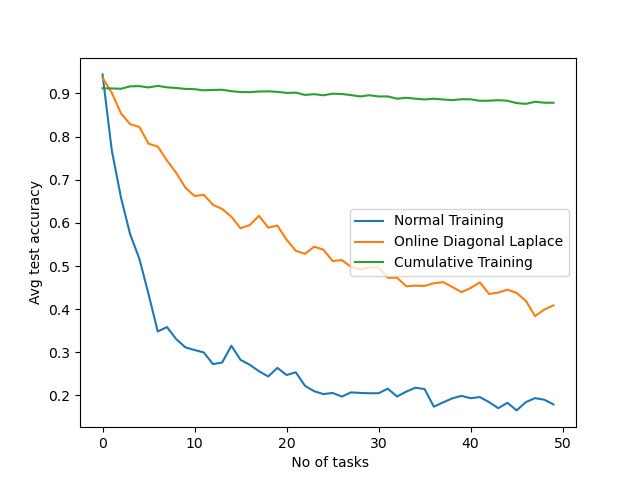
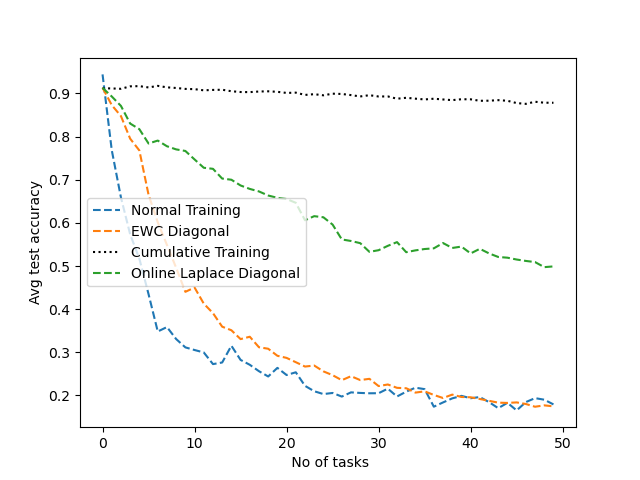
Added EWC

diff --git a/train.py b/train.py
@@ -4,7 +4,7 @@ import torch
 from torchvision import datasets, transforms
 from model import MLP, estimate_fisher
 from dataset import *
-
+from configs import cnfgs
 class OnlineLearner():
     def __init__(self, cfg):
         self.cfg = cfg
@@ -12,7 +12,9 @@ class OnlineLearner():
         self.train_datasets, self.test_datasets = get_permuted_MNIST(num_task=cfg['num_task'], seed=cfg['seed'])
         self.model = MLP(output_size=cfg['num_class']).to(self.device)
         self.current_parameter = {}
+        self.map_parameters = []
         self.current_fisher = {}
+        self.current_si = {}
         self.validation_acc = []
         
     def evaluate(self, idx):
@@ -31,6 +33,35 @@ class OnlineLearner():
         #print(f"Test accuracy: {acc}")
         return np.array(acc).mean()
     
+    def get_laplace_loss(self, model, current_fisher, parameter):
+        laplace_loss = []
+        for n, p in model.named_parameters():
+            map_parameter = parameter[n]
+            fisher = current_fisher[n]
+            laplace_loss.append((fisher*(p-map_parameter)**2).sum() )
+        return 0.5 * sum(laplace_loss)
+    
+    def get_si_loss(self, model, synaptic_strength, parameter):
+        si_loss = []
+        c=0.95
+        for n, p in model.named_parameters():
+            map_parameter = parameter[n]
+            synaptic_strength = synaptic_strength[n]
+            si_loss.append((synaptic_strength*(p-map_parameter)**2).sum() )
+        return c * sum(si_loss)
+    
+    def get_ewc_loss(self, model, current_fisher, map_parameters):
+        ewc_loss = []
+        for n, p in model.named_parameters():
+            # map_parameter = parameter[n]
+            fisher = current_fisher[n]
+            ewc_penalty = []
+            for prev_map_parameter in map_parameters:
+                ewc_penalty.append((p-prev_map_parameter[n])**2)
+            
+            ewc_loss.append((fisher*sum(ewc_penalty)).sum() )
+        return 0.5 * sum(ewc_loss)
+    
     def train(self, dataset, iters, idx):
         optimizer = torch.optim.Adam(self.model.parameters(), lr=self.cfg['lr'], betas=(0.9, 0.999))
         self.model.train()
@@ -47,16 +78,20 @@ class OnlineLearner():
             optimizer.zero_grad()
             y_hat = self.model(x)
             classifier_loss = torch.nn.functional.cross_entropy(input=y_hat, target=y, reduction='mean')
+            # if idx == 1 or self.cfg["train_mode"] == "normal":
+            #     loss = classifier_loss
             if idx>1 and (self.cfg["train_mode"] == "online_laplace_diagonal"):
-                laplace_loss = []
-                for n, p in self.model.named_parameters():
-                    map_parameter = self.current_parameter[n]
-                    fisher = self.current_fisher[n]
-                    laplace_loss.append((fisher*(p-map_parameter)**2).sum() )
-                laplace_loss = 0.5 * sum(laplace_loss)
+                laplace_loss = self.get_laplace_loss(self.model, self.current_fisher, self.current_parameter)
+                loss = classifier_loss + laplace_loss
+            elif idx>1 and (self.cfg["train_mode"] == "ewc_diagonal"):
+                laplace_loss = self.get_ewc_loss(self.model, self.current_fisher, self.map_parameters)
+                loss = classifier_loss + laplace_loss
+            elif idx>1 and (self.cfg["train_mode"] == "si_diagonal"):
+                si_loss = self.get_si_loss(self.model, self.current_fisher, self.current_parameter)
+                loss = classifier_loss + si_loss
             else:
-                laplace_loss = 0
-            loss = classifier_loss + laplace_loss
+                loss = classifier_loss
+            # loss = classifier_loss + laplace_loss
             accuracy = (y == y_hat.max(1)[1]).sum().item()*100 / x.size(0)
             loss.backward()
             optimizer.step()
@@ -67,14 +102,17 @@ class OnlineLearner():
             progress_bar.update(1)
         progress_bar.close()
     
-    
     def update_laplace_estimate(self, dataset, weight=1.0):
         fisher, self.current_parameter = estimate_fisher(self.model, dataset, n_samples=self.cfg['n_samples_fisher'], device=self.device)
+        self.map_parameters.append(self.current_parameter)
         if self.current_fisher :
             for n, p in fisher.items():
                 self.current_fisher[n] += fisher[n] * weight
         else:
             self.current_fisher = fisher
+    
+    def update_si_estimate(self, dataset, weight=1.0):
+        pass
             
     def train_all(self):
         for i in range(self.cfg['num_task']):
@@ -84,6 +122,10 @@ class OnlineLearner():
             print(f"Avg Test Accuracy: {acc: .3f}")
             if  (self.cfg["train_mode"] == "online_laplace_diagonal"):
                 self.update_laplace_estimate(self.train_datasets[i])
+            elif (self.cfg["train_mode"] == "ewc_diagonal"):
+                self.update_laplace_estimate(self.train_datasets[i])
+            elif (self.cfg["train_mode"] == "si_diagonal"):
+                self.update_si_estimate(self.train_datasets[i])
                 
         torch.save(torch.tensor(self.validation_acc), f"./plots/{self.cfg['train_mode']}.pt")
 
@@ -91,8 +133,6 @@ class OnlineLearner():
         for i in range(self.cfg['num_task']):
             
             #Train on all the previous datasets
-            # for j in range(i+1):
-            #     self.train(self.train_datasets[j], self.cfg['epoch'], idx=j+1)
             temp_dataset = torch.utils.data.ConcatDataset(self.train_datasets[:i+1])
             self.train(temp_dataset, self.cfg['epoch'], idx=i+1)
             acc = self.evaluate(i+1)
@@ -101,37 +141,19 @@ class OnlineLearner():
                 
         torch.save(torch.tensor(self.validation_acc), f"./plots/{self.cfg['train_mode']}.pt")
 
-    def print_data_shape(self):
-        for i in range(self.cfg['num_task']):
-            self.train_datasets[i] = torch.utils.data.ConcatDataset(self.train_datasets[:i+1])
-            print(f"Task {i+1}: Train: {len(self.train_datasets[i])}, Test: {len(self.test_datasets[i])}")
-        
-
 if __name__ == '__main__':      
     
-    # Can update new configurations here  
-    # cfg = {"device": 'cuda',
-    #     "num_task": 50,
-    #     "num_class": 10,
-    #     "seed": 42,
-    #     "batch_size": 128,
-    #     "lr": 0.01,
-    #     "epoch": 200,
-    #     "train_mode": 'online_laplace_diagonal',
-    #     "n_samples_fisher": 200,
-        
-    #     }
-
-    cfg = {"device": 'cuda',
-        "num_task": 50,
-        "num_class": 10,
-        "seed": 42,
-        "batch_size": 128,
-        "lr": 0.001,
-        "epoch": 200,
-        "train_mode": 'cumulative',        
-        }
-    l = OnlineLearner(cfg)
-    # l.train_all()
-    l.train_cumulative()
-    # l.print_data_shape()
+    cfg_ol = cnfgs[0]
+    cfg_ewc = cnfgs[1]
+    cfg_si = cnfgs[2]
+    cfg_cum = cnfgs[3]
+    cfg_norm = cnfgs[4]
+    
+    # Change this to select a specific configuration
+    l = OnlineLearner(cfg_ewc)
+    
+    # Comment this when training on cumulative datasets, otherwise uncomment
+    l.train_all()
+    
+    # Uncomment this to train on cumulative datasets
+    # l.train_cumulative()

diff --git a/configs.py b/configs.py
@@ -1,0 +1,53 @@
+cnfgs = [
+    {"device": 'cuda',
+        "num_task": 50,
+        "num_class": 10,
+        "seed": 42,
+        "batch_size": 128,
+        "lr": 0.001,
+        "epoch": 200,
+        "train_mode": 'online_laplace_diagonal',
+        "n_samples_fisher": 200,
+        },
+    
+    {"device": 'cuda',
+        "num_task": 50,
+        "num_class": 10,
+        "seed": 42,
+        "batch_size": 128,
+        "lr": 0.001,
+        "epoch": 200,
+        "train_mode": 'ewc_diagonal',
+        "n_samples_fisher": 200,  
+        },
+    
+    {"device": 'cuda',
+        "num_task": 50,
+        "num_class": 10,
+        "seed": 42,
+        "batch_size": 128,
+        "lr": 0.001,
+        "epoch": 200,
+        "train_mode": 'si_diagonal',        
+        },
+
+    {"device": 'cuda',
+        "num_task": 50,
+        "num_class": 10,
+        "seed": 42,
+        "batch_size": 128,
+        "lr": 0.001,
+        "epoch": 200,
+        "train_mode": 'cumulative',        
+        },
+    
+    {"device": 'cuda',
+        "num_task": 50,
+        "num_class": 10,
+        "seed": 42,
+        "batch_size": 128,
+        "lr": 0.001,
+        "epoch": 200,
+        "train_mode": 'normal',
+        },
+]

diff --git a/plot.py b/plot.py
@@ -2,12 +2,17 @@ import matplotlib.pyplot as plt
 import torch
 
 x1 = torch.load("plots/normal.pt")
-x2 = torch.load("plots/online_laplace_diagonal.pt")
+x2 = torch.load("plots/ewc_diagonal.pt")
 x3 = torch.load("plots/cumulative.pt")
+x4 = torch.load("plots/online_laplace_diagonal.pt")
+# x5 = torch.load("plots/si_diagonal.pt")
 
-plt.plot(x1, label="Normal Training")
-plt.plot(x2, label="Online Diagonal Laplace")
-plt.plot(x3, label="Cumulative Training")
+
+plt.plot(x1, label="Normal Training", linestyle='dashed')
+plt.plot(x2, label="EWC Diagonal", linestyle='dashed')
+plt.plot(x3, label="Cumulative Training", linestyle='dotted', color='black')
+plt.plot(x4, label="Online Laplace Diagonal", linestyle='dashed')
+# plt.plot(x5, label="SI Diagonal", linestyle='dashed')
 plt.xlabel(" No of tasks")
 plt.ylabel("Avg test accuracy")
 plt.legend()
